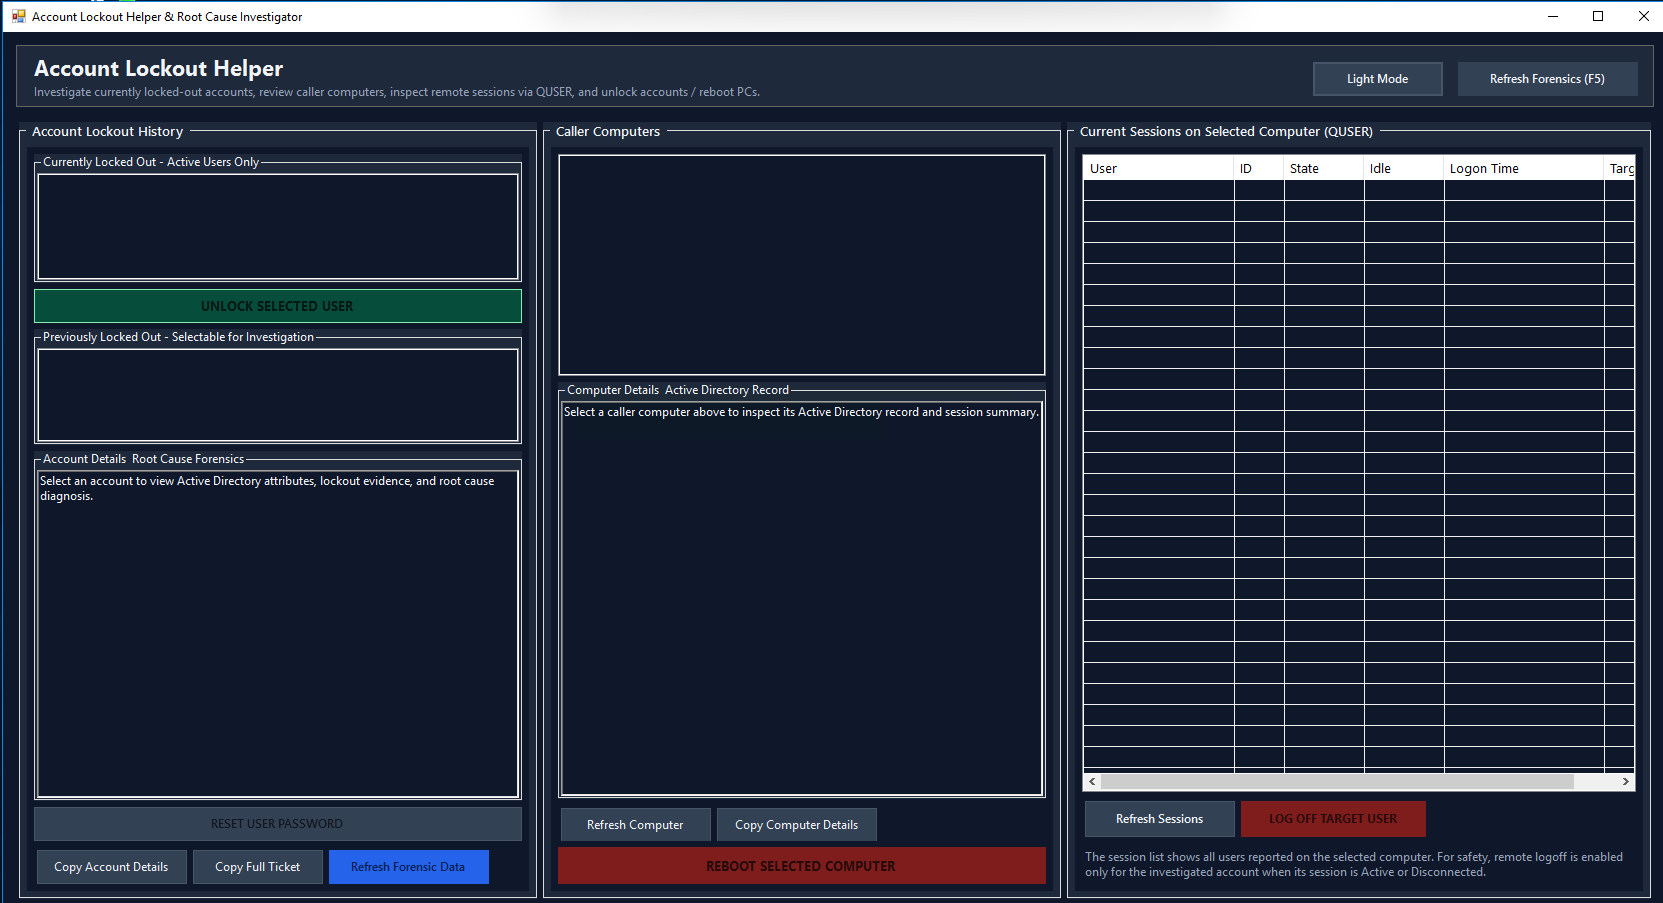
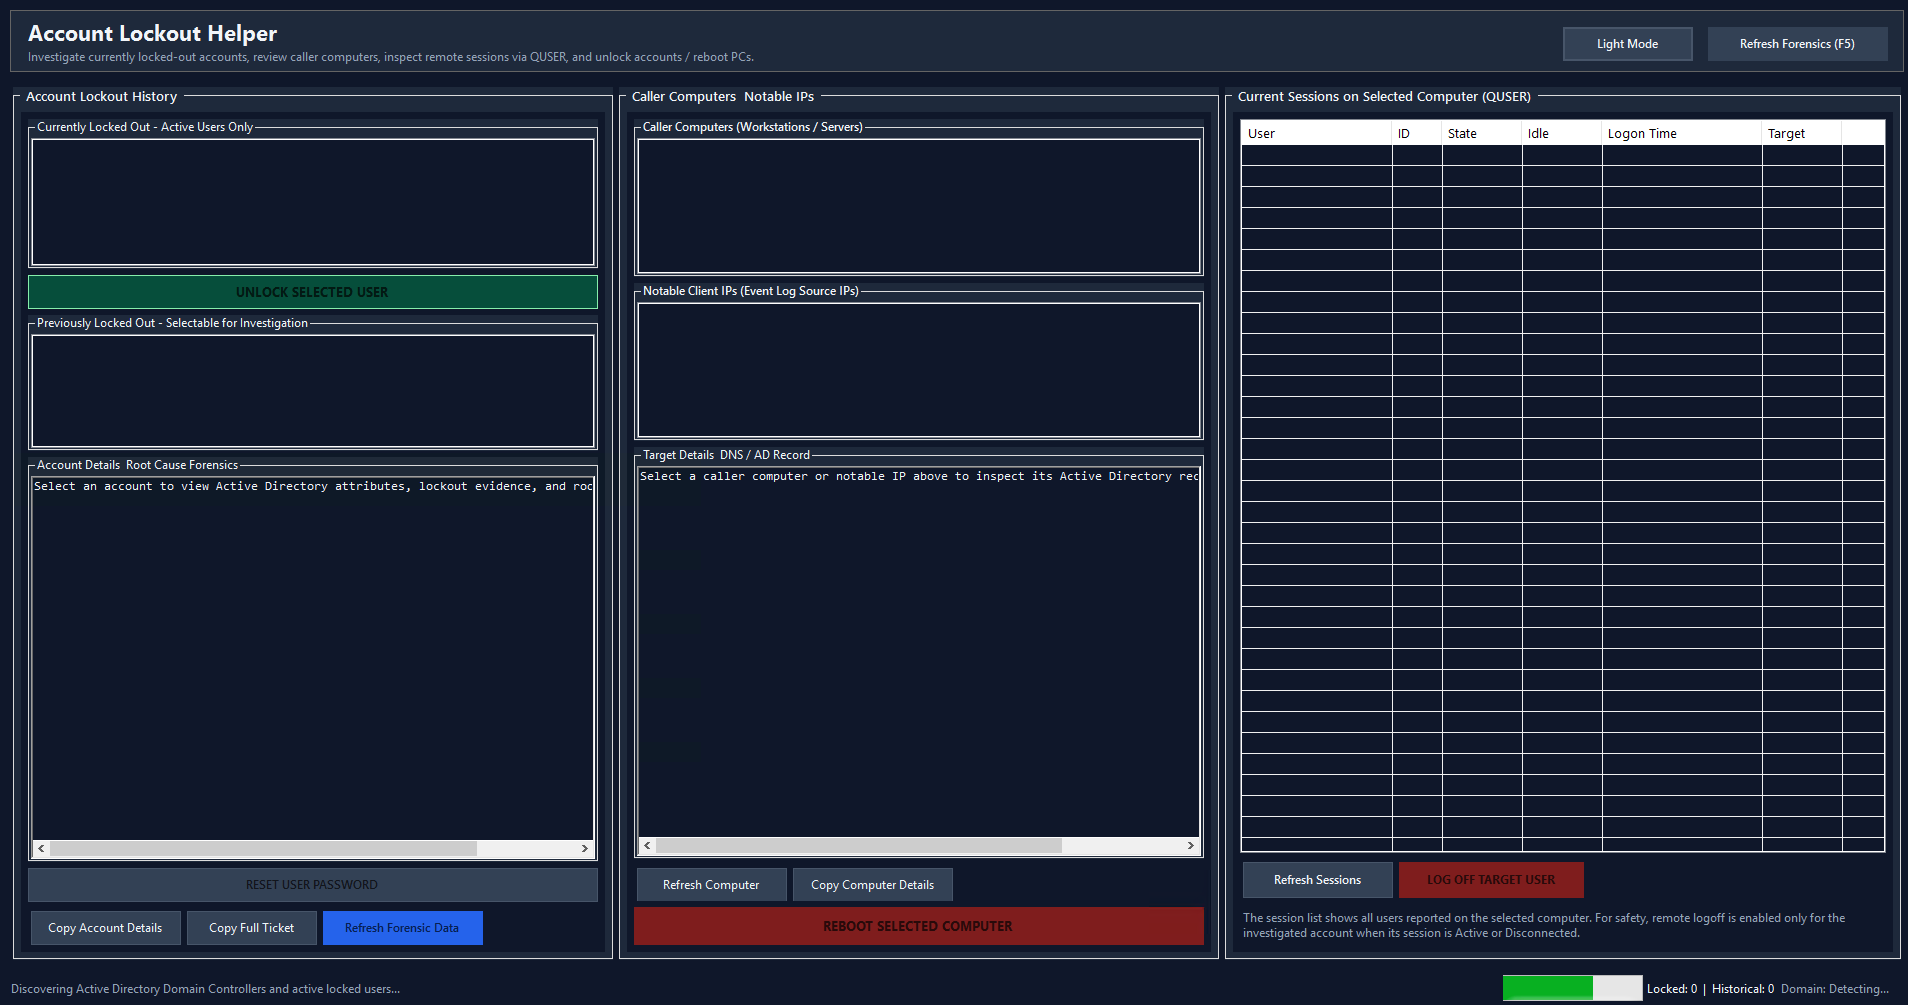
refactor: simplify UI application title and update screenshots.

Changed region(s): [[0.0, 0.0, 1.0, 1.0]]

diff --git a/Program-Code.cs b/Program-Code.cs
@@ -275,7 +275,7 @@ namespace DomainLockoutHelper
             headerPanel.BorderStyle = BorderStyle.FixedSingle;
 
             Label lblTitle = new Label();
-            lblTitle.Text = "Account Lockout Helper (v1.0.3)";
+            lblTitle.Text = "Account Lockout Helper";
             lblTitle.Font = new Font("Segoe UI", 16F, FontStyle.Bold);
             lblTitle.ForeColor = Color.FromArgb(15, 23, 42);
             lblTitle.AutoSize = true;
